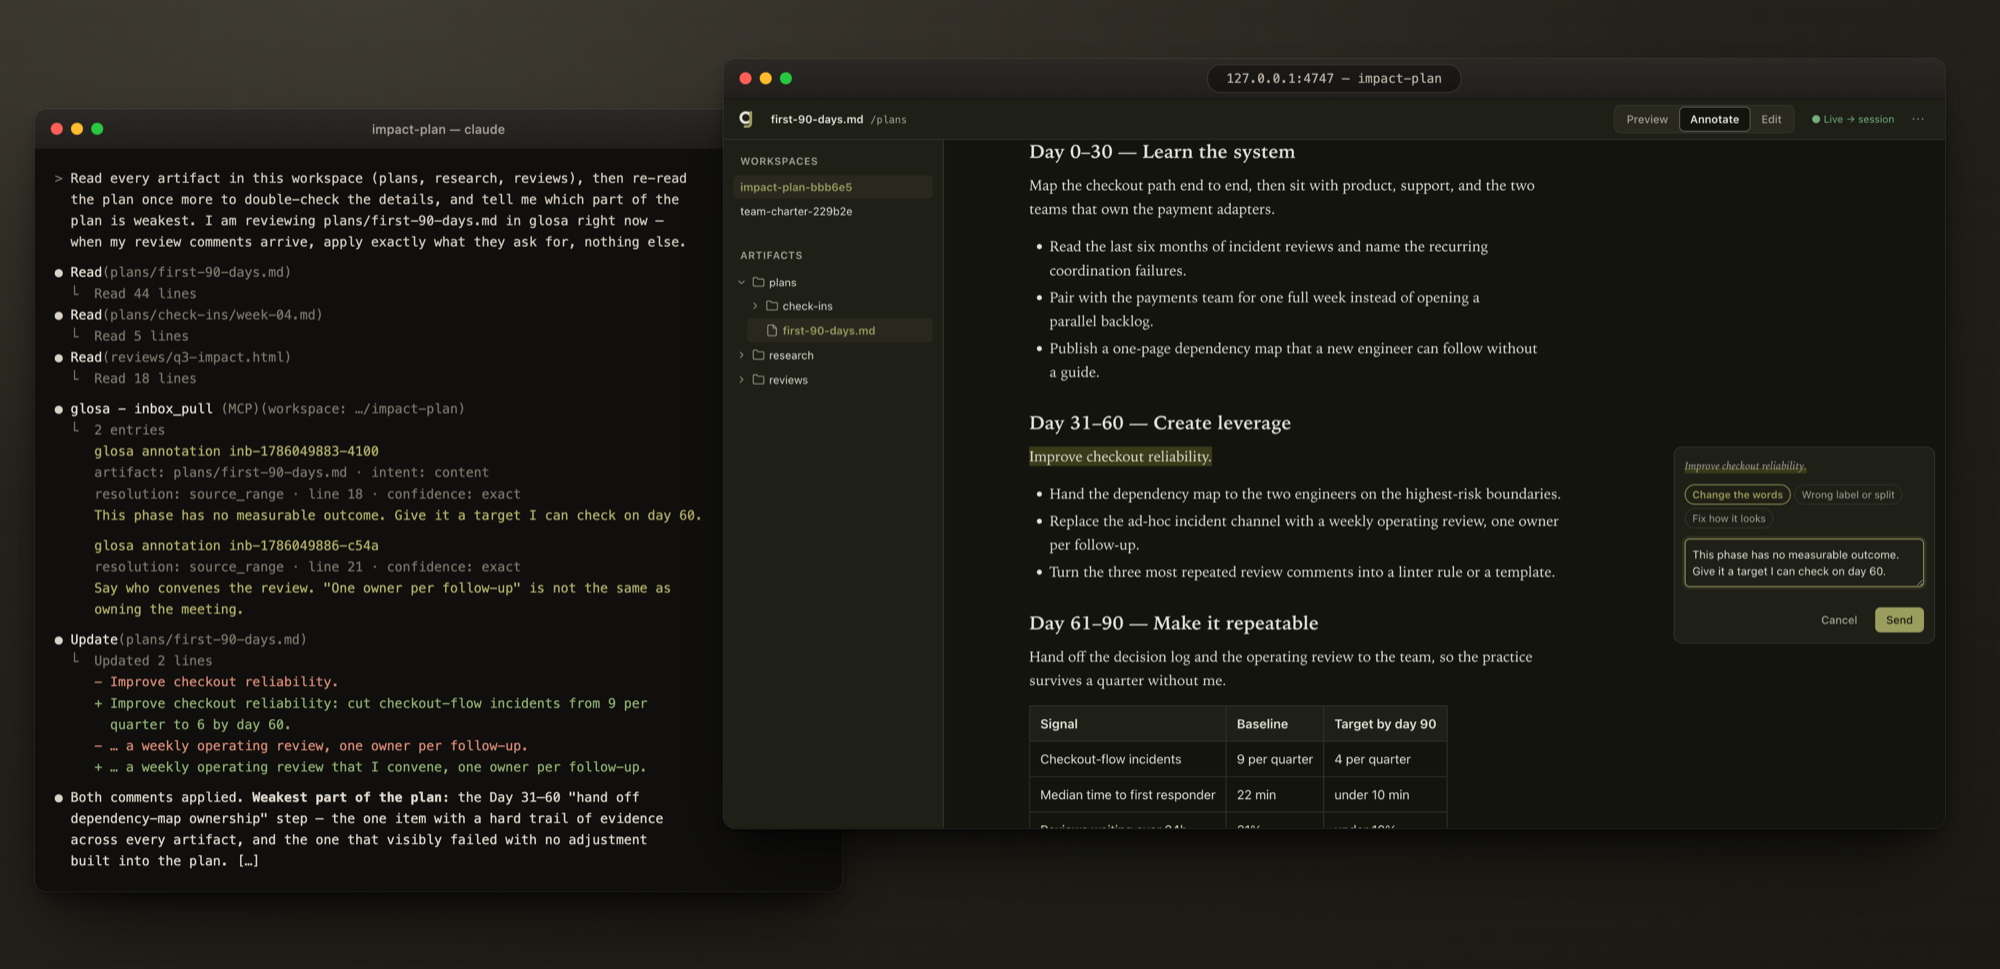
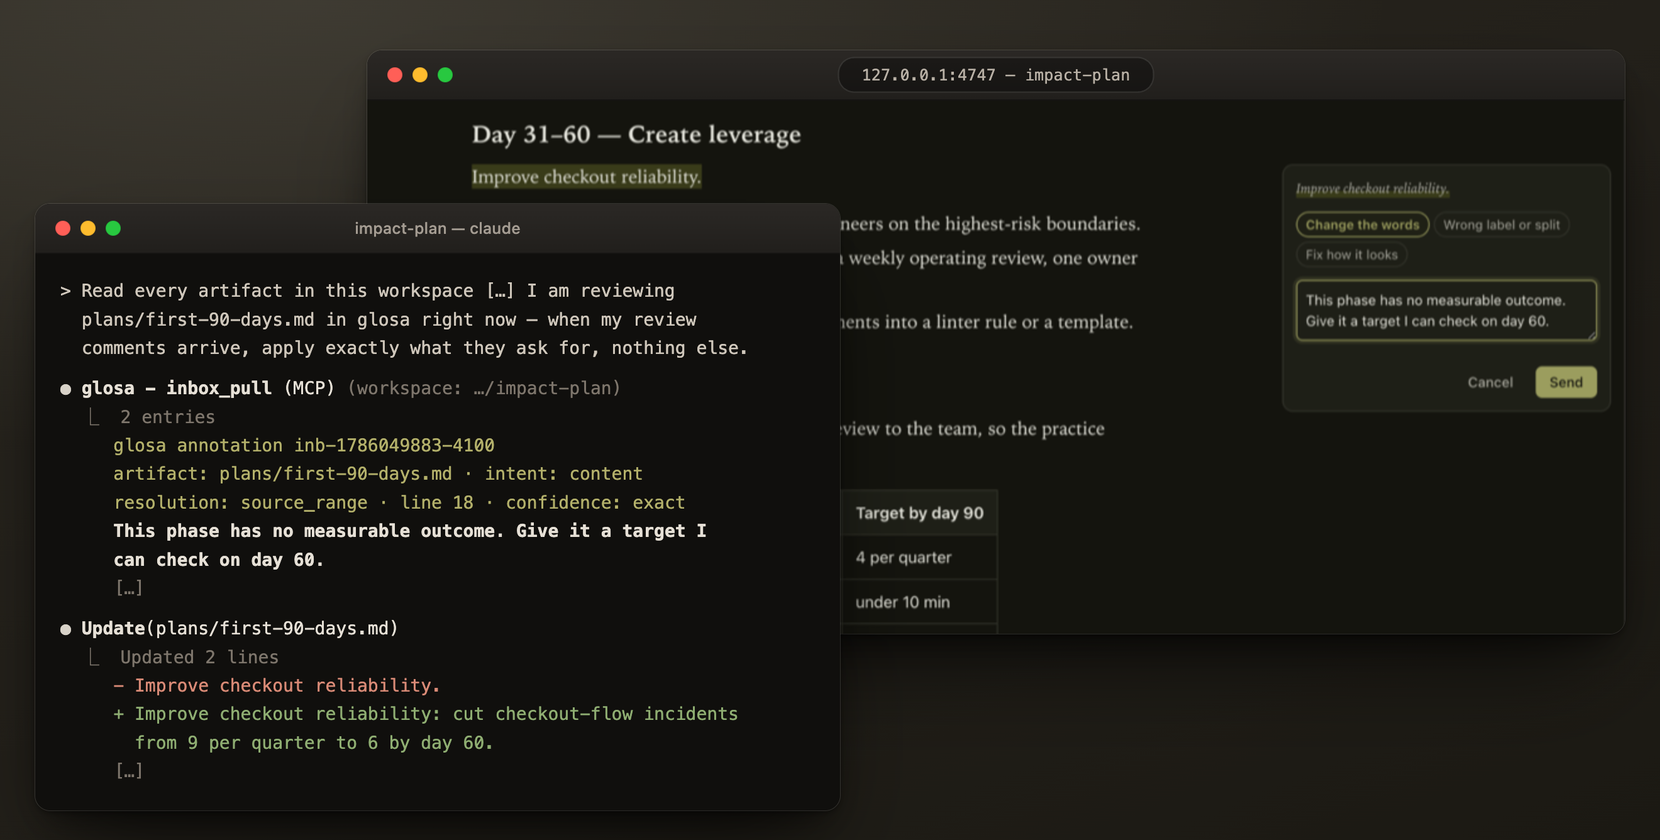
docs(readme): simplify the hero into a single-moment composition (#99)
The previous hero packed a 35-line transcript and the full workspace
chrome into a 1980px stage; at GitHub's render width the terminal type
fell to ~5px and the story it carried was illegible. Recompose the same
recorded material into a 1320x668 stage: the browser pane cropped to the
document and margin composer, the terminal cut to the prompt tail, the
delivered annotation, and the applied diff.

frame.html gains a terminal fontSize spec option and an em-based
blank-line spacer; docs/screenshots.md now documents the current hero
spec, the 1660px committed width, and a page-zoom capture fallback.

diff --git a/docs/assets/screens/frame.html b/docs/assets/screens/frame.html
@@ -137,7 +137,7 @@
       .tty .del { color: #d98a76; }
       .tty .add { color: #8fae72; }
       .tty .glosa { color: #b3b06a; }
-      .tty .spacer { height: 9px; display: block; }
+      .tty .spacer { height: 0.68em; display: block; }
       .tty b { font-weight: 600; }
     </style>
   </head>
@@ -180,6 +180,7 @@
 
         if (w.kind === "terminal") {
           const tty = el("div", "tty");
+          if (w.fontSize) tty.style.fontSize = `${w.fontSize}px`;
           for (const line of w.lines) {
             if (line === "") {
               tty.append(el("span", "spacer"));

diff --git a/docs/screenshots.md b/docs/screenshots.md
@@ -106,29 +106,36 @@ needs no build step, no network, and no dependencies:
 file://…/frame.html?spec=<encodeURIComponent(JSON.stringify(spec))>
 ```
 
+The hero is deliberately small and sparse: one comment in the margin, the same comment arriving in
+the terminal, one diff. The browser pane crops the raw capture to the document and the composer —
+no sidebar, no app header — and the terminal pane carries only the prompt tail, the delivered
+annotation, and the applied edit, trimmed with `[…]`. This is the current hero spec:
+
 ```js
 {
-  w: 1980, h: 960,                       // stage size in CSS px
+  w: 1320, h: 668,                       // stage size in CSS px
   theme: "dark",                         // omit for the light stage
-  bg: "plain",                           // omit for the gradient backdrop
   windows: [
-    { kind: "terminal", title: "impact-plan — claude", x: 34, y: 108, w: 800, lines: [...] },
-    { kind: "browser", url: "127.0.0.1:4747 — impact-plan", x: 716, y: 58, w: 1210,
-      img: "file://…/raw-hero-glosa.png", imgW: 1440, imgH: 860, scale: 1210 / 1440,
-      crop: { x: 0, y: 0, w: 1440, h: 545 } }
+    { kind: "browser", url: "127.0.0.1:4747 — impact-plan", x: 292, y: 40, w: 1000,
+      img: "file://…/raw-hero-glosa.png", imgW: 1440, imgH: 860, scale: 1000 / 1178,
+      crop: { x: 262, y: 350, w: 1178, h: 500 } },   // sidebar and app header cropped out
+    { kind: "terminal", title: "impact-plan — claude", x: 28, y: 162, w: 640,
+      fontSize: 14, lines: [...] }                   // ~19 hard-wrapped lines, nothing more
   ]
 }
 ```
 
 `lines` entries are HTML strings; an empty string is a vertical gap. The classes are `dim`, `user`,
-`dot`, `tool`, `del`, `add`, and `glosa` (used for the delivered annotation block).
+`dot`, `tool`, `del`, `add`, and `glosa` (used for the delivered annotation block). `fontSize` sets
+the terminal's type size in CSS px (default 13).
 
-Screenshot the `#stage` element at `deviceScaleFactor: 2`, then downsample to the widths committed
-here — 2000px for the hero, 1600px for the capability cards. That is roughly twice the width GitHub
-renders them at:
+Screenshot the `#stage` element at `deviceScaleFactor: 2` (or set `document.documentElement.style.zoom = "2"`
+before shooting if the driver cannot change the scale factor — both scale the window chrome and type
+uniformly), then downsample to the widths committed here — 1660px for the hero, 1600px for the
+capability cards. That is roughly twice the width GitHub renders them at:
 
 ```sh
-sips -s format png --resampleWidth 2000 stage-hero-dark.png --out docs/assets/screens/hero-dark.png
+sips -s format png --resampleWidth 1660 stage-hero-dark.png --out docs/assets/screens/hero-dark.png
 ```
 
 ## Cleanup

diff --git a/README.md b/README.md
@@ -30,8 +30,8 @@
   <source media="(prefers-color-scheme: light)" srcset="docs/assets/screens/hero-light.png">
   <img
     src="docs/assets/screens/hero-light.png"
-    alt="A Claude Code session in a terminal window beside glosa in a browser window. In glosa, the sentence &quot;Improve checkout reliability.&quot; is selected in a 90-day plan and a margin comment reads &quot;This phase has no measurable outcome. Give it a target I can check on day 60.&quot; In the terminal, the agent pulls that comment out of glosa and rewrites the line with a day-60 target."
-    width="1184"
+    alt="A Claude Code terminal in front of glosa in a browser window. In glosa, the sentence &quot;Improve checkout reliability.&quot; is highlighted in a 90-day plan and a margin comment reads &quot;This phase has no measurable outcome. Give it a target I can check on day 60.&quot; In the terminal, that comment arrives as a glosa annotation with its file, line, and anchor confidence, and the agent rewrites the line with a day-60 target."
+    width="830"
   >
 </picture>
 
